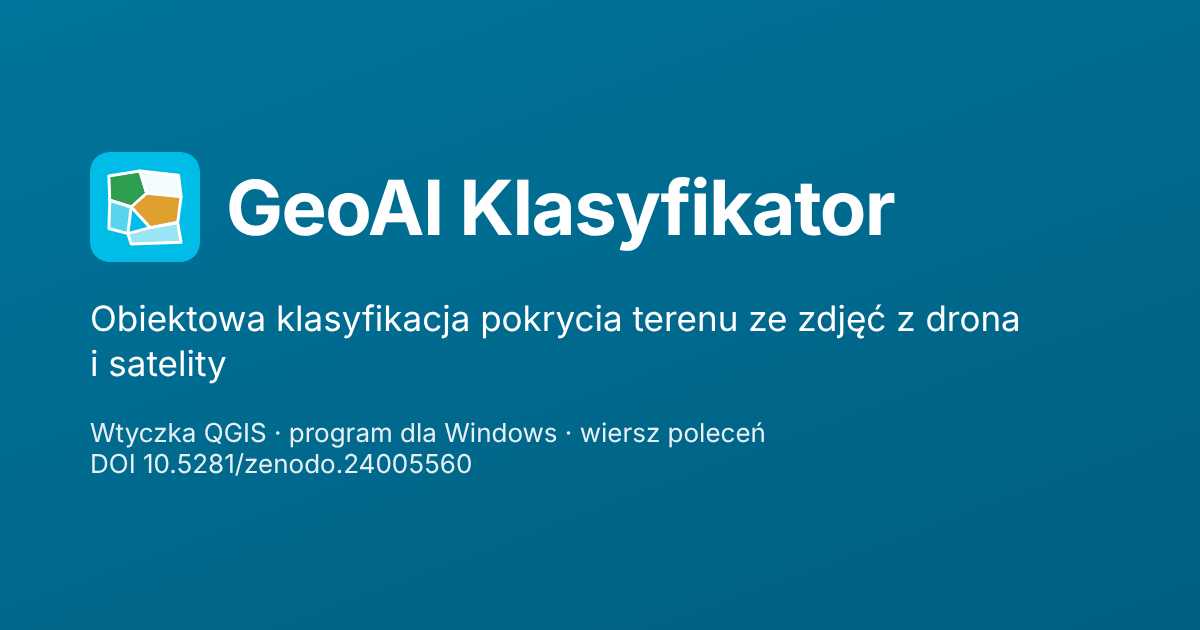
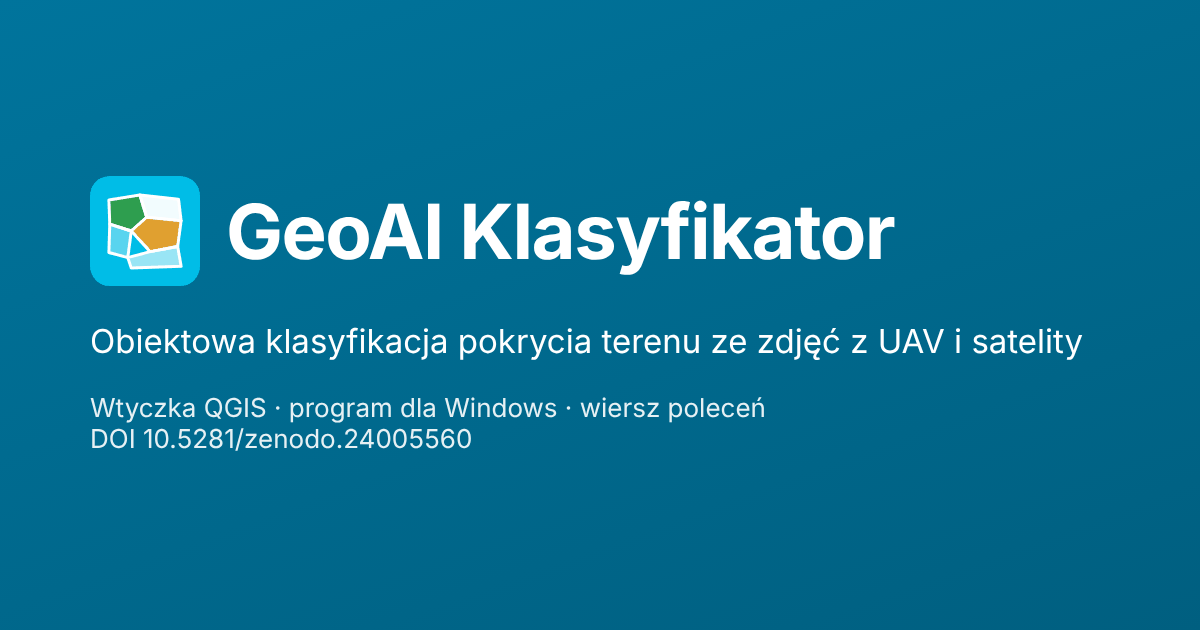
Podtytuły: „ze zdjęć z UAV i satelity” w jednej linii
- nagłówek strony: dwa wiersze bez łamania, rozmiar dopasowany do
  szerokości ekranu (sprawdzone od 320 px)
- README, opisy meta i Open Graph, obraz podglądu linku

Claude-Session: https://claude.ai/code/session_015B2cmCKoPVVJLu97GNh9KY

Changed region(s): [[0.0617, 0.2413, 0.7708, 0.4524], [0.0617, 0.4825, 0.8942, 0.6032], [0.0617, 0.6333, 0.6475, 0.754]]

diff --git a/docs/index.html b/docs/index.html
@@ -13,19 +13,19 @@
 <meta property="og:locale" content="pl_PL">
 <meta property="og:site_name" content="GeoAI Klasyfikator">
 <meta property="og:title" content="GeoAI Klasyfikator">
-<meta property="og:description" content="Obiektowa klasyfikacja pokrycia terenu ze zdjęć z drona lub satelity. Wtyczka QGIS, program dla Windows i wiersz poleceń. Instrukcja krok po kroku.">
+<meta property="og:description" content="Obiektowa klasyfikacja pokrycia terenu ze zdjęć z UAV i satelity. Wtyczka QGIS, program dla Windows i wiersz poleceń. Instrukcja krok po kroku.">
 <meta property="og:url" content="https://gorniakgrzegorz.github.io/geoai_klasyfikator/">
 <meta property="og:image" content="https://gorniakgrzegorz.github.io/geoai_klasyfikator/og.png">
 <meta property="og:image:width" content="1200">
 <meta property="og:image:height" content="630">
-<meta property="og:image:alt" content="GeoAI Klasyfikator: obiektowa klasyfikacja pokrycia terenu ze zdjęć z drona i satelity">
+<meta property="og:image:alt" content="GeoAI Klasyfikator: obiektowa klasyfikacja pokrycia terenu ze zdjęć z UAV i satelity">
 <meta name="twitter:card" content="summary_large_image">
 <script type="application/ld+json">
 {
  "@context": "https://schema.org",
  "@type": "SoftwareApplication",
  "name": "GeoAI Klasyfikator",
- "description": "Otwarte oprogramowanie do obiektowej klasyfikacji pokrycia terenu (GEOBIA) ze zdjęć RGB z drona, zdjęć lotniczych i kompozycji Sentinel-2: segmentacja SLIC, Random Forest, ocena dokładności z estymacją powierzchni klas i przedziałami ufności 95%.",
+ "description": "Otwarte oprogramowanie do obiektowej klasyfikacji pokrycia terenu (GEOBIA) ze zdjęć RGB z UAV, zdjęć lotniczych i kompozycji Sentinel-2: segmentacja SLIC, Random Forest, ocena dokładności z estymacją powierzchni klas i przedziałami ufności 95%.",
  "url": "https://gorniakgrzegorz.github.io/geoai_klasyfikator/",
  "applicationCategory": "ScientificApplication",
  "operatingSystem": "Windows; QGIS 3.22 lub nowszy",
@@ -60,7 +60,7 @@
  "keywords": "GEOBIA, klasyfikacja obiektowa, pokrycie terenu, Random Forest, SLIC, dron, Sentinel-2, QGIS, ocena dokładności, teledetekcja"
 }
 </script>
-<meta name="description" content="Obiektowa klasyfikacja pokrycia terenu ze zdjęć z drona lub satelity. Wtyczka QGIS, program dla Windows i wiersz poleceń. Instrukcja krok po kroku.">
+<meta name="description" content="Obiektowa klasyfikacja pokrycia terenu ze zdjęć z UAV i satelity. Wtyczka QGIS, program dla Windows i wiersz poleceń. Instrukcja krok po kroku.">
 <style>
 :root{
   --marka:#00bde7; --marka-ciemna:#00749c; --marka-glebia:#005f80; --marka-jasna:#eafaff;
@@ -91,6 +91,7 @@ header{background:linear-gradient(160deg,var(--marka-ciemna) 0%,var(--marka-gleb
 header::after{content:"";position:absolute;inset:auto 0 -1px 0;height:40px;
   background:var(--tlo);clip-path:polygon(0 100%,100% 0,100% 100%)}
 header h1{margin:0 0 10px;font-size:2.7rem;letter-spacing:-.02em;line-height:1.1}
+header h1 .wiersz{display:block;white-space:nowrap}
 header p.lead{margin:0 0 26px;font-size:1.18rem;max-width:620px;color:#fff}
 .odznaki{display:flex;gap:9px;flex-wrap:wrap}
 .odznaka{background:rgba(255,255,255,.17);border:1px solid rgba(255,255,255,.3);
@@ -233,7 +234,7 @@ a.cyt:hover{text-decoration:underline}
   .anim-etapy button{min-height:44px;padding:8px 11px;font-size:13px}
   .anim-przyciski button{min-height:44px}}
 @media(max-width:640px){
-  header h1{font-size:2rem}
+  header h1{font-size:clamp(1.2rem,7.4vw,2rem)}
   nav .linki{display:none}
   .menu{display:block}
   h2 .numer{width:28px;height:28px;font-size:.9rem}
@@ -288,7 +289,7 @@ a.cyt:hover{text-decoration:underline}
 </div></nav>
 
 <header><div class="owijka">
-  <h1>Mapa pokrycia terenu<br>ze zdjęć z drona lub satelity</h1>
+  <h1><span class="wiersz">Mapa pokrycia terenu</span><span class="wiersz">ze zdjęć z UAV i satelity</span></h1>
   <p class="lead">Program dzieli zdjęcie na obiekty, uczy się Twoich klas
   z kilkunastu przykładów, a na końcu uczciwie mówi, ile ta mapa jest warta.</p>
   <div class="odznaki">

diff --git a/README.md b/README.md
@@ -2,7 +2,7 @@
 
 # GeoAI Klasyfikator
 
-**Mapa pokrycia terenu ze zdjęć z drona lub satelity, w trzech wersjach, na jednym silniku.**
+**Mapa pokrycia terenu ze zdjęć z UAV i satelity, w trzech wersjach, na jednym silniku.**
 
 [📖 Instrukcja z rysunkami](https://gorniakgrzegorz.github.io/geoai_klasyfikator/) ·
 [⬇ Pobierz program dla Windows](https://github.com/gorniakgrzegorz/geoai_klasyfikator/releases) ·
